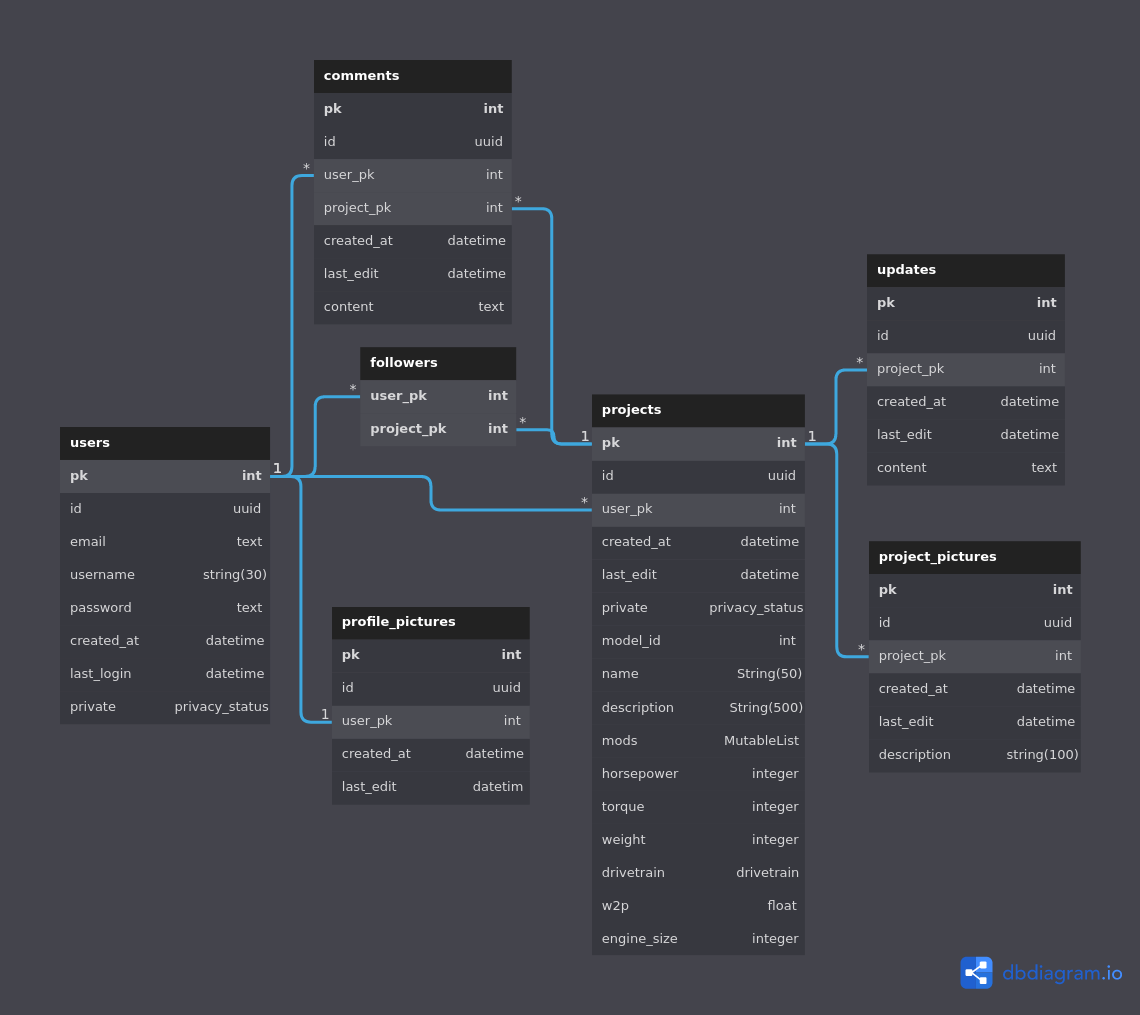
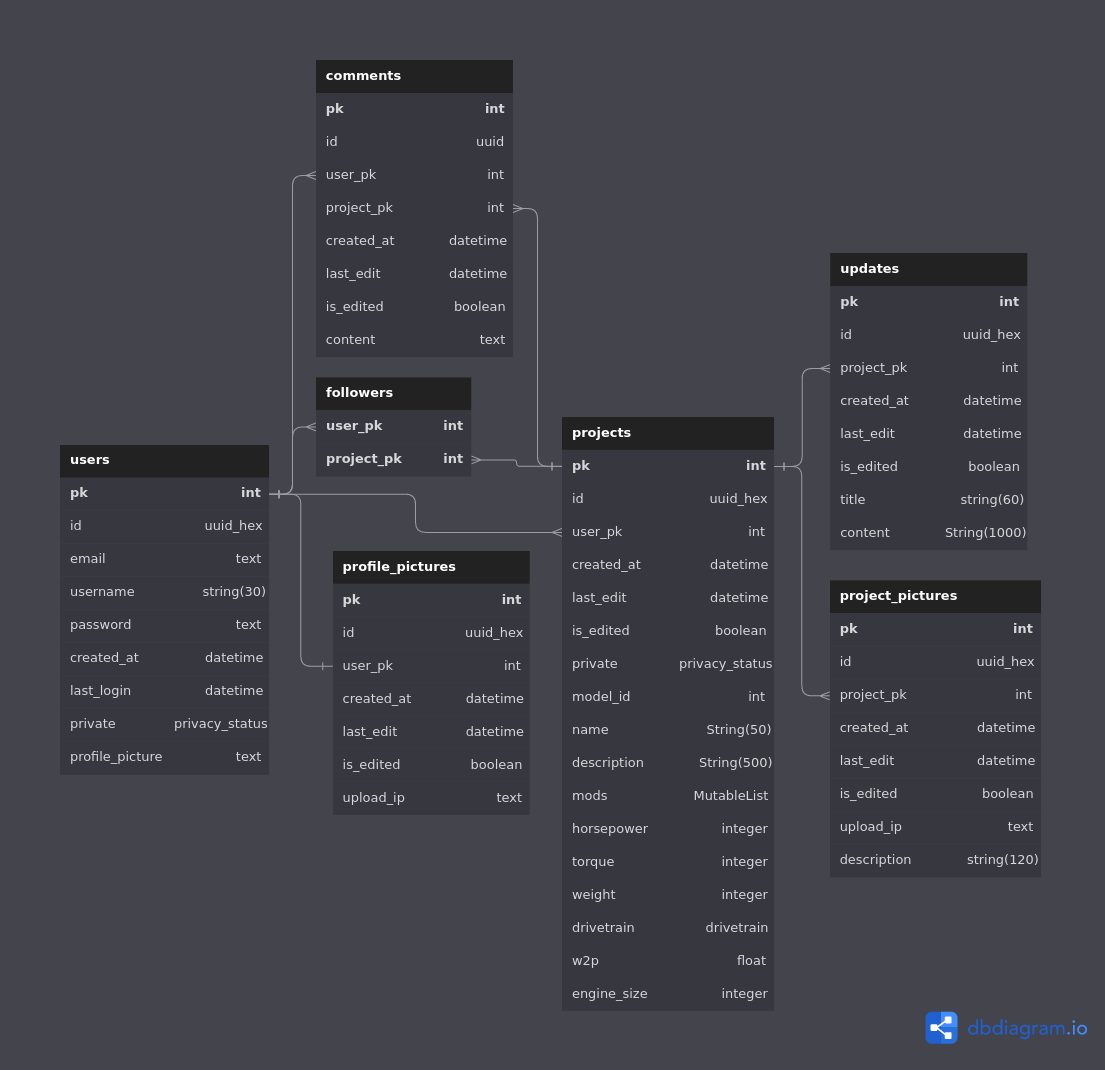
Updated readme

diff --git a/app/models/users.py b/app/models/users.py
@@ -28,8 +28,6 @@ class User(UserMixin, base, db.Model):
     email = db.Column(db.Text, unique=True, nullable=False)
     password = db.Column(db.String(60), CheckConstraint(
         "LENGTH(password) >= 60"), nullable=False)
-    created_at = db.Column(db.DateTime, nullable=False,
-                           default=datetime.utcnow())
     last_login = db.Column(
         db.DateTime, nullable=False, default=datetime.utcnow())
     private = db.Column(ENUM(PrivacyStatus),

diff --git a/README.md b/README.md
@@ -1,29 +1,27 @@
 # Modlog
 
-## What goal is the site designed to achieve?
+https://jsime-modlog.herokuapp.com
 
-This site is a place for users to create pages that represent their project car. Users will be able to keep a log of their project cars as well as upload pictures and share the pages with other users.
+## What is the goal?
+
+This site is a place for users to create pages that represent their project car. Users are be able to keep a log of their project cars as well as upload pictures and share the pages with other users.
 
 ## What is the demograhic of the site's users?
 
-This app will be targeted towards members of the automotive community.
+This app is be targeted towards members of the automotive community.
 
-## What data is being used?
+## - What functionality does the app include?
 
-This app will use https://www.carqueryapi.com/ to gain relevant data tied to users cars for more information and interactivity. It'll contain more in depth data about the vehicle such as drivetrain specs, etc.
+The user will be able to save their project and update it with posts and other users will be able to leave comments. Users can set their project to private to hide it from other users. Users are also now able to upload their own pictures to their project page.
 
-## - What kinds of issues might occur with the API?
+## - What does the user flow look like?
 
-Some requests possibly might not return valid information which will have to be handled.
+Upon logging in, the user is shown their profile page where they have a list of their own projects and a link to create a new project. There are also links to show projects that the user is following or to edit their own profile settings. Once a project has been created, the project page will allow the user to add what mods they have to their car, add pictures of the car, edit the information regarding the project including setting privacy, and be able to post updates to the car as well. Other users are also able to post comments to a project to interact as well.
 
-## - What functionality will the app include?
+## - What data is being used?
 
-The user will be able to save their project and update it with posts and other users will be able to leave comments. Users can set their project to private to hide it from other users. In future, users will be able to set the project to public, private, or only available with special link.
+This app uses https://www.carqueryapi.com/ to gain relevant data tied to users' cars for more information and interactivity. It provides more in depth data about the vehicle such as drivetrain specs, etc. Unfortunately this API is quite out of date. Data for years after 2019 is a replica of 2019 data.
 
-## - What will the user flow look like?
-
-The user will start at a homepage asking for a login or signup. After the user is logged in it will show their dashboard with their projects on it. There will also be a link to view projects the user is following. The project page will show the pictures and description above user updates. There will be a sidebar for comments.
-
-# DB Schema
+# DB Schema##
 
 ![DB schema](/.github/schema.png)
